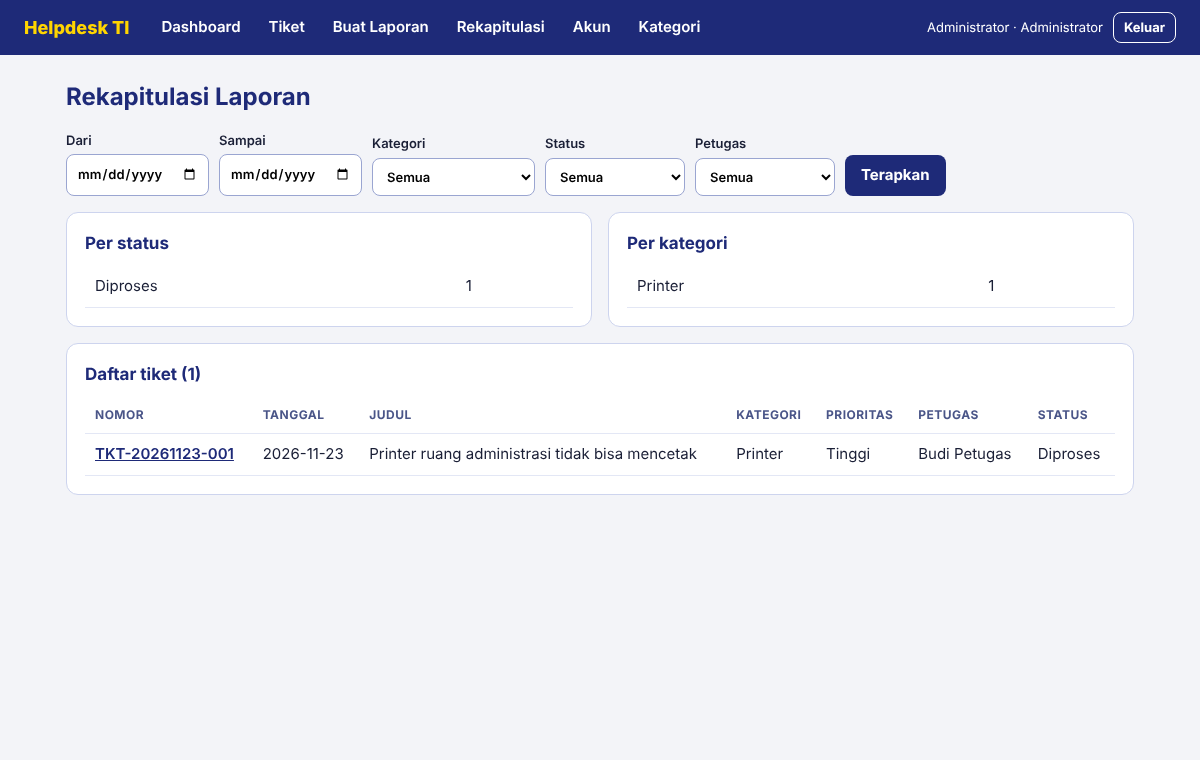
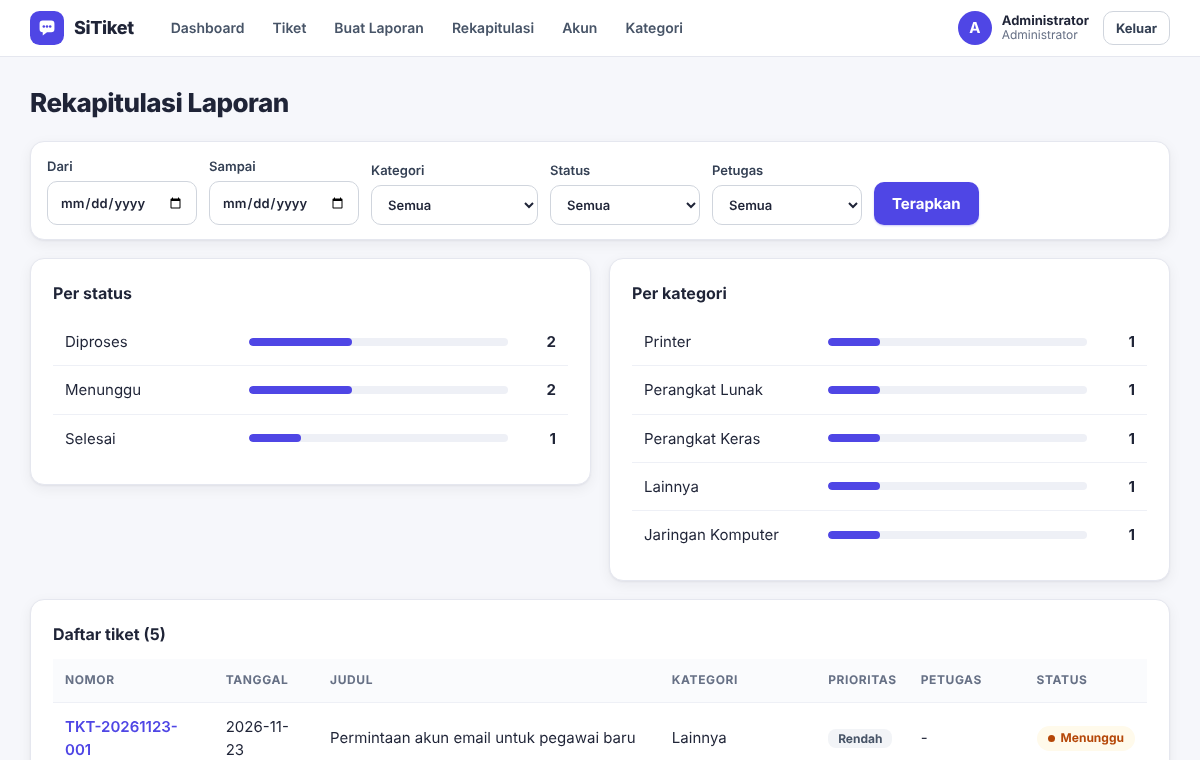
Nama aplikasi SiTiket dan tangkapan layar baru
Claude-Session: https://claude.ai/code/session_01EYcqo9bz3YdzMABC9yzZCL

diff --git a/app.py b/app.py
@@ -182,7 +182,7 @@ def check_csrf():
 @app.context_processor
 def inject():
     return dict(user=current_user(), csrf_token=csrf_token, ROLES=ROLES,
-                APP_NAME=os.environ.get("APP_NAME", "Helpdesk TI"),
+                APP_NAME=os.environ.get("APP_NAME", "SiTiket"),
                 STATUS=STATUS, PRIORITAS=PRIORITAS)
 
 
